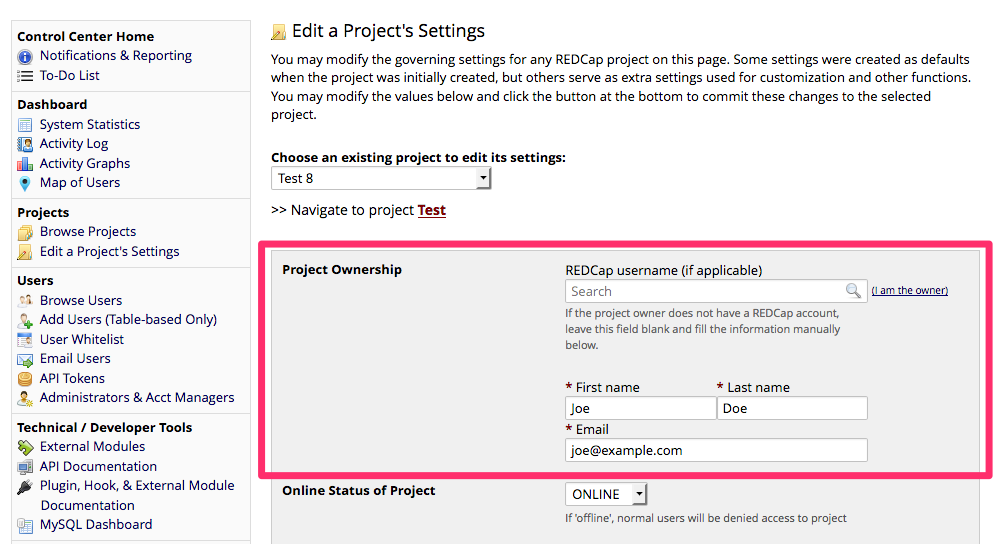
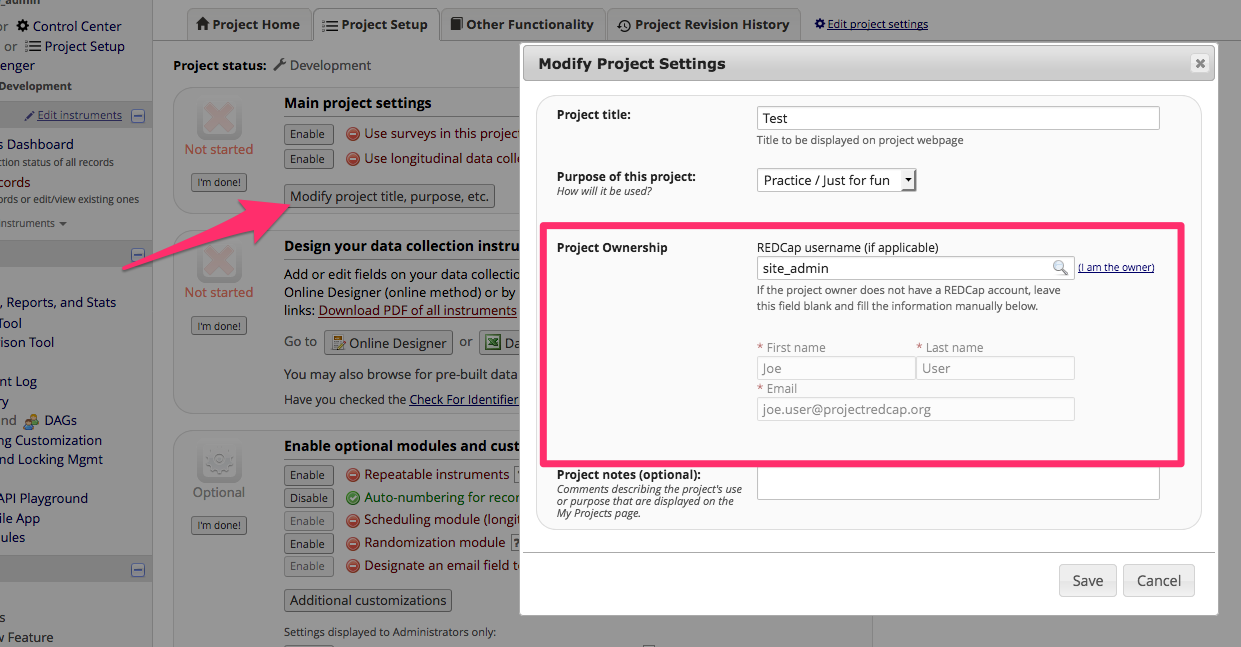
Moving fields from 'Edit project settings' page to 'Modify project settings' modal.

diff --git a/js/owner-fieldset.js b/js/owner-fieldset.js
@@ -1,34 +1,44 @@
 $(document).ready(function() {
-    if ($('#row_purpose').length === 0) {
-        // Place ownership fieldset at project edit page.
-        $('form table tbody').prepend(projectOwnership.fieldsetContents);
+    // Place ownership fieldset at project create/edit page, right after
+    // "Purpose" field.
+    $('#row_purpose').after(projectOwnership.fieldsetContents);
 
-        var $submit = $('form input[type="submit"]');
+    if (projectOwnership.projectId) {
         var submitCallback = function() {
-            $('#form').submit();
-            return false;
-        }
+            $('#editprojectform').submit();
+        };
+
+        $('#edit_project').on('dialogopen', function() {
+            var buttons = $(this).dialog('option', 'buttons');
+            buttons.Save = projectOwnershipSubmit;
+            $(this).dialog('option', 'buttons', buttons);
+        });
     }
     else {
-        // Place ownership fieldset at project create page, right after
-        // "Purpose" field.
-        $('#row_purpose').after(projectOwnership.fieldsetContents);
+        var submitCallback = function() {
+            document.createdb.submit();
+        };
+
         var $submit = $('form table tr').last().find('td button').first();
-        var submitCallback = $submit[0].onclick;
+        $submit[0].onclick = projectOwnershipSubmit;
     }
 
     var $username = $('[name="project_ownership_username"]');
 
     // Overriding onclick callback of submit buttons.
-    $submit[0].onclick = function(event) {
+    function projectOwnershipSubmit() {
+        if (!setFieldsCreateFormChk()) {
+            return false;
+        }
+
         var userId = $username.val();
         if (userId === '') {
             // If username is not set, we need to check for required fields.
             var fieldName = false;
 
-            $('.owner-required-info').each(function() {
+            $('.po-required-info').each(function() {
                 if ($(this).val() === '') {
-                    fieldName = $(this).siblings('.owner-info-label').text();
+                    fieldName = $(this).siblings('.po-info-label').text();
                     simpleDialog('Please provide a valid ' + fieldName  + '.', 'Invalid ' + fieldName + '.');
                     return false;
                 }
@@ -55,7 +65,7 @@ $(document).ready(function() {
 
             return false;
         }
-    };
+    }
 
     // Autocompleting first name, last name and email fields as the respective
     // PI fields are filled out.
@@ -90,12 +100,12 @@ $(document).ready(function() {
         var userId = $username.val();
 
         if (userId === '') {
-            $('.owner-required-info').removeAttr('disabled').parent().removeClass('disabled');
+            $('.po-required-info').removeAttr('disabled').parent().removeClass('disabled');
         }
         else {
             // If username field is not empty, clear up and disable first name,
             // last name, and email fields.
-            $('.owner-required-info').attr('disabled', 'disabled').val('').parent().addClass('disabled');
+            $('.po-required-info').attr('disabled', 'disabled').val('').parent().addClass('disabled');
 
             // If the given username is valid, fill out first name, last name
             // and email by pulling account information.
@@ -117,7 +127,7 @@ $(document).ready(function() {
     $username.change(usernameFieldUpdateCallback);
 
     // Handling ownership auto assign link.
-    $('.project_ownership_auto_assign').click(function(event) {
+    $('.po-auto-assign').click(function(event) {
         $username.val(projectOwnership.userId);
         $username.change();
 

diff --git a/css/owner-fieldset.css b/css/owner-fieldset.css
@@ -1,26 +1,31 @@
-form#form #project_ownership_username,
-form#form #project_ownership_email,
-form[name="createdb"] #project_ownership_username,
-form[name="createdb"] #project_ownership_email,
-#project_ownership-tr .newdbsub {
-    width: 75%;
-    max-width: 450px;
-}
-
-form[name="createdb"] #project_ownership-tr .cc_label,
-form[name="createdb"] #project_ownership-tr .cc_data {
+.po-col {
     padding-top: 25px;
     padding-bottom: 40px;
 }
 
-form#form .project_ownership_name_wrapper input,
-form[name="createdb"] .project_ownership_name_wrapper input {
-    max-width: 100%;
-    width: 100%;
+.po-label {
+    font-weight: bold;
 }
 
-form[name="createdb"] .cc_label {
-    font-weight: bold;
+.po-row {
+    width: 75%;
+    max-width: 450px;
+}
+
+.po-name-wrapper {
+    width: 75%;
+    max-width: 450px;
+    margin-top: 15px;
+}
+
+.po-name-wrapper div {
+    float: left;
+    width: 50%;
+}
+
+.po-name-wrapper input {
+    max-width: 100%;
+    width: 100%;
 }
 
 img.search-icon {
@@ -28,20 +33,9 @@ img.search-icon {
     margin-right: 6px;
 }
 
-a.project_ownership_auto_assign {
+a.po-auto-assign {
     font-size: 10px;
     text-decoration: underline;
-}
-
-.project_ownership_name_wrapper {
-    width: 75%;
-    max-width: 450px;
-    margin-top: 15px;
-}
-
-.project_ownership_name_wrapper div {
-    float: left;
-    width: 50%;
 }
 
 .required-ast {

diff --git a/ExternalModule.php b/ExternalModule.php
@@ -18,10 +18,10 @@ class ExternalModule extends AbstractExternalModule {
     /**
      * @inheritdoc
      */
-    function redcap_every_page_before_render() {
+    function redcap_every_page_before_render($project_id) {
         // Saving onwership when project create or edit form is submitted.
-        if (in_array(PAGE, array('ControlCenter/edit_project.php', 'ProjectGeneral/create_project.php')) && $_SERVER['REQUEST_METHOD'] == 'POST') {
-            $this->saveProjectOwnership();
+        if (in_array(PAGE, array('ProjectGeneral/edit_project_settings.php', 'ProjectGeneral/create_project.php')) && $_SERVER['REQUEST_METHOD'] == 'POST') {
+            $this->saveProjectOwnership($project_id);
         }
     }
 
@@ -30,8 +30,8 @@ class ExternalModule extends AbstractExternalModule {
      */
     function redcap_every_page_top($project_id) {
         // The ownership fieldset is only placed on create and edit project forms.
-        if ((strpos(PAGE, 'redcap/index.php') === 0 && !empty($_GET['action']) && $_GET['action'] == 'create') || PAGE == 'ControlCenter/edit_project.php') {
-            $this->buildOwnershipFieldset(empty($_GET['project']) ? null : $_GET['project']);
+        if ((strpos(PAGE, 'redcap/index.php') === 0 && !empty($_GET['action']) && $_GET['action'] == 'create') || PAGE == 'ProjectSetup/index.php') {
+            $this->buildOwnershipFieldset($project_id);
         }
     }
 
@@ -90,69 +90,73 @@ class ExternalModule extends AbstractExternalModule {
          */
         $this->redcap_module_system_enable($this->VERSION);
 
-        $project_ownership = array('username' => '', 'firstname' => '', 'lastname' => '', 'email' => '');
+        // Setting up default values.
+        $po_data = array(
+            'username' => '',
+            'firstname' => '',
+            'lastname' => '',
+            'email' => '',
+        );
+
         if ($project_id) {
             // Loading stored values.
-            $project_ownership = $this->getProjectOwnership($project_id);
+            $po_data = $this->getProjectOwnership($project_id);
         }
 
         // Required field marker.
         $req_ast = RCView::span(array('class' => 'required-ast'), '*') . ' ';
 
         // Username field.
-        $data = RCView::span(array(), 'REDCap username (if applicable)') . RCView::br();
-        $data .= RCView::text(array(
+        $output = RCView::span(array(), 'REDCap username (if applicable)') . RCView::br();
+        $output .= RCView::text(array(
             'id' => 'project_ownership_username',
             'name' => 'project_ownership_username',
-            'class' => 'x-form-text x-form-field',
+            'class' => 'x-form-text x-form-field po-row',
             'placeholder' => 'Search',
-            'value' => $project_ownership['username'],
+            'value' => $po_data['username'],
         ));
 
         // Adding search icon to username field.
-        $data .= RCView::img(array('class' => 'search-icon', 'src' => APP_PATH_IMAGES . 'magnifier.png'));
+        $output .= RCView::img(array('class' => 'search-icon', 'src' => APP_PATH_IMAGES . 'magnifier.png'));
 
         // Adding ownership auto assign link.
-        $data .= RCView::a(array('href' => '#', 'class' => 'project_ownership_auto_assign'), '(I am the owner)');
+        $output .= RCView::a(array('href' => '#', 'class' => 'po-auto-assign'), '(I am the owner)');
 
         // Adding helper text to username field.
-        $data .= RCView::div(array('class' => 'newdbsub'), 'If the project owner does not have a REDCap account, leave this field blank and fill the information manually below.');
+        $output .= RCView::div(array('class' => 'newdbsub po-row'), 'If the project owner does not have a REDCap account, leave this field blank and fill the information manually below.');
 
         // Building first and last name fields.
         $name_fields = '';
         foreach (array('firstname' => 'First name', 'lastname' => 'Last name') as $suffix => $label) {
             $field_name = 'project_ownership_' . $suffix;
-            $name_fields .= RCView::div(array(), $req_ast . RCView::span(array('class' => 'owner-info-label'), $label) . RCView::br() . RCView::text(array(
+            $name_fields .= RCView::div(array(), $req_ast . RCView::span(array('class' => 'po-info-label'), $label) . RCView::br() . RCView::text(array(
                 'id' => $field_name,
                 'name' => $field_name,
-                'class' => 'x-form-text x-form-field owner-required-info',
-                'value' => $project_ownership[$suffix],
+                'class' => 'x-form-text x-form-field po-required-info',
+                'value' => $po_data[$suffix],
             )));
         }
 
         // Wrapping first and last name fields into a single row.
-        $data .= RCView::div(array('class' => 'project_ownership_name_wrapper clearfix'), $name_fields);
+        $output .= RCView::div(array('class' => 'po-name-wrapper clearfix'), $name_fields);
 
         // Email field.
-        $data .= RCView::div(array(), $req_ast . RCView::span(array('class' => 'owner-info-label'), 'Email') . RCView::br() . RCView::text(array(
+        $output .= RCView::div(array(), $req_ast . RCView::span(array('class' => 'owner-info-label'), 'Email') . RCView::br() . RCView::text(array(
             'id' => 'project_ownership_email',
             'name' => 'project_ownership_email',
-            'class' => 'x-form-text x-form-field owner-required-info',
-            'value' => $project_ownership['email'],
+            'class' => 'x-form-text x-form-field po-required-info po-row',
+            'value' => $po_data['email'],
         )));
 
         // Fieldset title.
-        $data = RCView::td(array('class' => 'cc_label'), 'Project Ownership') . RCView::td(array('class' => 'cc_data'), $data);
+        $output = RCView::td(array('class' => 'po-label po-col'), 'Project Ownership') . RCView::td(array('class' => 'po-col'), $output);
 
         // Passing fieldset content to JS.
         $settings = array(
+            'projectId' => $project_id,
             'userId' => USERID,
             'userInfoAjaxPath' => $this->getUrl('plugins/user_info_ajax.php'),
-            'fieldsetContents' => RCView::tr(array(
-                'id' => 'project_ownership-tr',
-                'sq_id' => 'project_ownership',
-                'valign' => 'top',
-            ), $data),
+            'fieldsetContents' => RCView::tr(array('id' => 'po-tr', 'valign' => 'top'), $output),
         );
 
         $this->setJsSettings($settings);
@@ -177,29 +181,28 @@ class ExternalModule extends AbstractExternalModule {
     /**
      * Saves project ownership.
      */
-    protected function saveProjectOwnership() {
-        if (empty($_GET['project'])) {
+    protected function saveProjectOwnership($project_id) {
+        if (!$project_id) {
+            $project_id = 1;
+
             // If we are at project creation page, we need to calculate the ID
             // of the project being created.
+            //
             // TODO: improve this, since concurrent requests can lead to
             // inconsistencies.
             $q = $this->query('SELECT project_id FROM redcap_projects ORDER BY project_id DESC LIMIT 1');
-            $pid = 1;
 
             if (db_num_rows($q)) {
                 $row = db_fetch_assoc($q);
-                $pid += $row['project_id'];
+                $project_id += $row['project_id'];
             }
-        }
-        else {
-            $pid = db_escape($_GET['project']);
         }
 
         // If username is set, leave the others as blank.
         $suffixes = empty($_POST['username']) ? array('username', 'firstname', 'lastname', 'email') : array('username');
 
         $values = array();
-        if ($this->getProjectOwnership($pid)) {
+        if ($this->getProjectOwnership($project_id)) {
             // Updating an existing entry.
             foreach ($suffixes as $suffix) {
                 $field_name = 'project_ownership_' . $suffix;
@@ -207,11 +210,11 @@ class ExternalModule extends AbstractExternalModule {
                 unset($_POST[$field_name]);
             }
 
-            $this->query('UPDATE redcap_project_ownership SET ' . implode(', ', $values) . ' WHERE pid = ' . $pid);
+            $this->query('UPDATE redcap_project_ownership SET ' . implode(', ', $values) . ' WHERE pid = ' . $project_id);
         }
         else {
             // Creating a new entry.
-            $values['pid'] = $pid;
+            $values['pid'] = $project_id;
             foreach ($suffixes as $suffix) {
                 $field_name = 'project_ownership_' . $suffix;
                 $values[$suffix] = empty($_POST[$field_name]) ? 'null' : '"' . db_escape($_POST[$field_name]) . '"';

diff --git a/README.md b/README.md
@@ -24,6 +24,6 @@ If the purpose of the project is "Research", the ownership fields are auto compl
 ![Autocomplete from PI information](img/pi_autocomplete.gif)
 
 ## Checking and updating project ownership
-The same fieldset from project creation page may be seen at project settings page. There, users are able to check and update ownership information.
+The same fieldset from project creation page may be seen at project settings modal - where users are able to check and update ownership information.
 
 ![Project settings page](img/edit_project.png)
